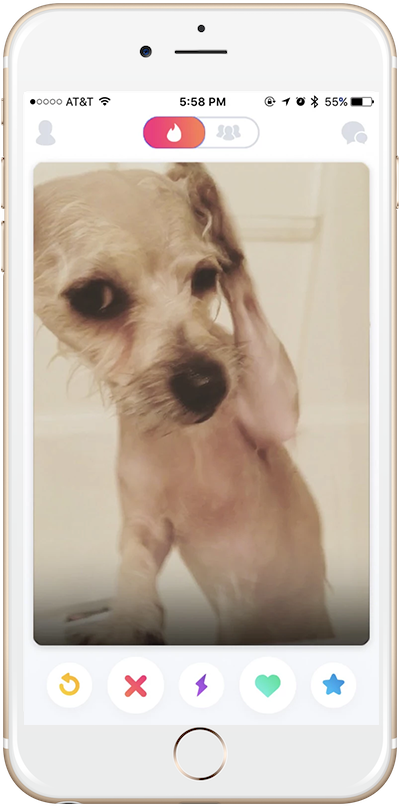
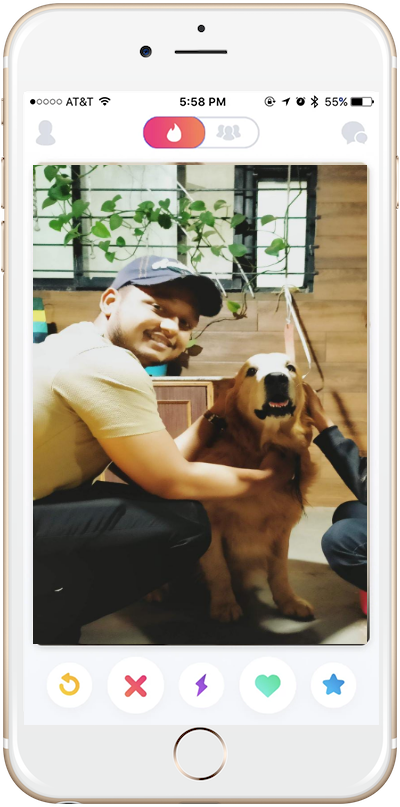
Personalised Images added and changes made correspondingly

diff --git a/index.html b/index.html
@@ -102,13 +102,18 @@
       <div class="carousel-inner">
         <div class="carousel-item active">
           <h2 class="main-heading">I no longer have to sniff other dogs for love. I've found the hottest Corgi on TinDog. Woof.</h2>
-          <img class="testimonial-image" src="images/dog-img.jpg" alt="dog-profile">
-          <em>Pebbles, New York</em>
+          <img class="testimonial-image" src="images/Gabbar.png" alt="dog-profile">
+          <em>Gabbar, Baramati </em>
         </div>
         <div class="carousel-item">
-          <h2 class="testimonial-text main-heading">My dog used to be so lonely, but with TinDog's help, they've found the love of their life. I think.</h2>
-          <img class="testimonial-image" src="images/lady-img.jpg" alt="lady-profile">
-          <em>Beverly, Illinois</em>
+          <h2 class="testimonial-text main-heading">My dog used to be so lonely, but with TinDog's help, he found a sweety around to play. I think.</h2>
+          <img class="testimonial-image" src="images/Sanchi2.png" alt="sanchi's-profile">
+          <em>Sanchayati, Saswad</em>
+        </div>
+        <div class="carousel-item">
+          <h2 class="testimonial-text main-heading">Finally our Jainy has met the love of her life. With tinDog it was an awesome Journey !</h2>
+          <img class="testimonial-image" src="images/Pranali-Rupam.png" alt="pranali-rupam-profile">
+          <em>Pranali, Pune</em>
         </div>
       </div>
       <a class="carousel-control-prev" href="#carouselExampleControls" role="button" data-bs-slide="prev">
@@ -149,7 +154,9 @@
       <div class="pricing-column col-lg-4 col-md-6">
         <div class="card">
           <div class="card-header">
-            <h3>Chihuahua</h3>
+            <h3>Golden Retriever</h3>
+            <br />
+            <br />
           </div>
           <div class="card-body">
             <h2>Free</h2>
@@ -164,9 +171,14 @@
         <div class="card">
           <div class="card-header">
             <h3>Labrador</h3>
+            <br>
+            <br>
+            <br>
+            <br />
+            <br />
           </div>
           <div class="card-body">
-            <h2>$49 / mo</h2>
+            <h2>₹499 / mo</h2>
             <p>Unlimited Matches</p>
             <p>Unlimited Messages</p>
             <p>Unlimited App Usage</p>
@@ -177,10 +189,10 @@
       <div class="pricing-column col-lg-4 col-md-12">
         <div class="card">
           <div class="card-header">
-            <h3>Mastiff</h3>
+            <h3>German Shepherd</h3>
           </div>
           <div class="card-body">
-            <h2>$99 / mo</h2>
+            <h2>₹999 / mo</h2>
             <p>Pirority Listing</p>
             <p>Unlimited Matches</p>
             <p>Unlimited Messages</p>
